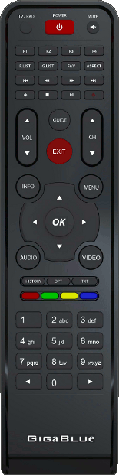
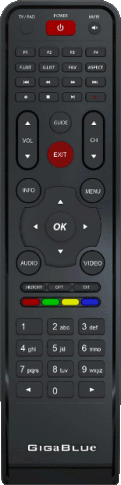
Fix GigaBlue remote.html and improve rc.png

diff --git a/data/rc_models/gb/remote.html b/data/rc_models/gb/remote.html
@@ -1,69 +1,56 @@
 <img border='0' src='static/remotes/gb/rc.png' usemap='#map' >
 <map name="map">
-	<area shape="rect" coords="60,25,95,44" alt="Power" onclick="pressMenuRemote('116');">
-	<area shape="rect" coords="20,408,55,428" alt="1" onclick="pressMenuRemote('2');">
-	<area shape="rect" coords="60,408,94,428" alt="2" onclick="pressMenuRemote('3');">
-	<area shape="rect" coords="100,408,133,428" alt="3" onclick="pressMenuRemote('4');">
-	<area shape="rect" coords="20,434,55,455" alt="4" onclick="pressMenuRemote('5');">
-	<area shape="rect" coords="60,434,94,455" alt="5" onclick="pressMenuRemote('6');">
-	<area shape="rect" coords="100,434,133,455" alt="6" onclick="pressMenuRemote('7');">
-	<area shape="rect" coords="20,461,55,482" alt="7" onclick="pressMenuRemote('8');">
-	<area shape="rect" coords="60,461,94,482" alt="8" onclick="pressMenuRemote('9');">
-	<area shape="rect" coords="100,461,133,482" alt="9" onclick="pressMenuRemote('10');">
-	<area shape="rect" coords="20,488,55,508" alt="previous" onclick="pressMenuRemote('412');">
-	<area shape="rect" coords="60,488,94,508" alt="0" onclick="pressMenuRemote('11');">
-	<area shape="rect" coords="100,488,133,508" alt="next" onclick="pressMenuRemote('407');">
-	<area shape="rect" coords="28,381,50,391" alt="red" onclick="pressMenuRemote('398');">
-	<area shape="rect" coords="54,381,76,391" alt="green" onclick="pressMenuRemote('399');">
-	<area shape="rect" coords="79,381,101,391" alt="yellow" onclick="pressMenuRemote('400');">
-	<area shape="rect" coords="104,381,125,391" alt="blue" onclick="pressMenuRemote('401');">
-	<area shape="circle" coords="118,243,20" alt="menu" onclick="pressMenuRemote('139');">
-	<area shape="circle" coords="77,157,20" alt="epg" onclick="pressMenuRemote('365');">
-	<area shape="circle" coords="36,244,20" alt="info" onclick="pressMenuRemote('358');">
-	<area shape="circle" coords="77,197,20" alt="exit" onclick="pressMenuRemote('174');">
-	<area shape="circle" coords="77,258,20" alt="up" onclick="pressMenuRemote('103');">
-	<area shape="circle" coords="77,322,20" alt="down" onclick="pressMenuRemote('108');">
-	<area shape="circle" coords="46,290,20" alt="left" onclick="pressMenuRemote('105');">
-	<area shape="circle" coords="109,290,20" alt="right" onclick="pressMenuRemote('106');">
-	<area shape="circle" coords="77,290,20" alt="OK" onclick="pressMenuRemote('352');">
-	<area shape="circle" coords="35,158,15" alt="volume up" onclick="pressMenuRemote('115');">
-	<area shape="circle" coords="35,200,15" alt="volume down" onclick="pressMenuRemote('114');">
-	<area shape="circle" coords="121,35,10" alt="mute" onclick="pressMenuRemote('113');">
-	<area shape="rect" coords="19,80,44,91" alt="filelist" onclick="pressMenuRemote('393');">
-	<area shape="rect" coords="20,61,45,72" alt="F1" onclick="pressMenuRemote('59');">
-	<area shape="rect" coords="50,61,75,72" alt="F2" onclick="pressMenuRemote('64');">
-	<area shape="rect" coords="80,61,105,72" alt="F3" onclick="pressMenuRemote('61');">
-	<area shape="rect" coords="110,61,135,72" alt="F4" onclick="pressMenuRemote('62');">
-	<!--
-	<area shape="circle" coords="59,299,12" alt="playlist" onclick="pressMenuRemote('395');">
-	-->
-	<area shape="circle" coords="119,158,15" alt="channel up" onclick="pressMenuRemote('402');">
-	<area shape="circle" coords="119,200,15" alt="channel down" onclick="pressMenuRemote('403');">
-	<area shape="rect" coords="49,98,75,110" alt="rewind" onclick="pressMenuRemote('168');">
-	<area shape="rect" coords="80,117,104,129" alt="play" onclick="pressMenuRemote('119');">
-	<!--
-	<area shape="rect" coords="80,117,104,129" alt="pause" onclick="pressMenuRemote('207');">
-	-->
-	<area shape="rect" coords="80,98,104,110" alt="forward" onclick="pressMenuRemote('208');">
-	<area shape="rect" coords="110,117,134,129" alt="record" onclick="pressMenuRemote('167');">
-	<area shape="rect" coords="50,117,75,129" alt="stop" onclick="pressMenuRemote('128');">
-	<!--
-	<area shape="circle" coords="88,335,12" alt="jump" onclick="pressMenuRemote('519');">
-	<area shape="rect" coords="80,117,104,129" alt="timeshift" onclick="pressMenuRemote('359');">
-	<area shape="circle" coords="59,352,12" alt="mark" onclick="pressMenuRemote('834');">
-	<area shape="circle" coords="88,352,12" alt="search" onclick="pressMenuRemote('535');">
-	<area shape="circle" coords="30,370,12" alt="timer" onclick="pressMenuRemote('362');">
-	<area shape="circle" coords="59,370,12" alt="pip" onclick="pressMenuRemote('375');">
-	<area shape="circle" coords="88,370,12" alt="vkey" onclick="pressMenuRemote('393');">
-	-->
-	<area shape="rect" coords="94,363,125,371" alt="text" onclick="pressMenuRemote('388');">
-	<area shape="rect" coords="62,363,88,371" alt="subtitle" onclick="pressMenuRemote('370');">
-    	
-	<area shape="circle" coords="36,336,20" alt="audio" onclick="pressMenuRemote('392');">
-	<area shape="circle" coords="118,336,20" alt="video" onclick="pressMenuRemote('393');">
-	
-	<area shape="circle" coords="33,34,12" alt="tv radio" onclick="pressMenuRemote('377');">
-	<!--
-	<area shape="circle" coords="90,68,12" alt="help" onclick="pressMenuRemote('138');">
-	-->
+	<area shape="circle" coords="26,28,8" alt="tvrad" onclick="pressMenuRemote('377');">
+	<area shape="rect" coords="45,20,75,35" alt="power" onclick="pressMenuRemote('116');">
+	<area shape="circle" coords="94,28,8" alt="mute" onclick="pressMenuRemote('113');">
+	<area shape="rect" coords="15,47,35,56" alt="f1" onclick="pressMenuRemote('59');">
+	<area shape="rect" coords="39,47,58,56" alt="f2" onclick="pressMenuRemote('64');">
+	<area shape="rect" coords="62,47,81,56" alt="f3" onclick="pressMenuRemote('61');">
+	<area shape="rect" coords="85,47,105,56" alt="f4" onclick="pressMenuRemote('62');">
+	<area shape="rect" coords="15,62,35,71" alt="flist" onclick="pressMenuRemote('226');">
+	<area shape="rect" coords="39,62,58,71" alt="glist" onclick="pressMenuRemote('395');">
+	<area shape="rect" coords="62,62,81,71" alt="fav" onclick="pressMenuRemote('364');">
+	<area shape="rect" coords="85,62,105,71" alt="aspect" onclick="pressMenuRemote('375');">
+	<area shape="rect" coords="15,77,35,86" alt="arrowleft" onclick="pressMenuRemote('412');">
+	<area shape="rect" coords="39,77,58,86" alt="rewind" onclick="pressMenuRemote('168');">
+	<area shape="rect" coords="62,77,81,86" alt="forward" onclick="pressMenuRemote('208');">
+	<area shape="rect" coords="85,77,105,86" alt="arrowright" onclick="pressMenuRemote('407');">
+	<area shape="rect" coords="15,92,35,101" alt="timer" onclick="pressMenuRemote('362');">
+	<area shape="rect" coords="39,92,58,101" alt="stop" onclick="pressMenuRemote('128');">
+	<area shape="rect" coords="62,92,81,101" alt="playpause" onclick="pressMenuRemote('164');">
+	<area shape="rect" coords="85,92,105,101" alt="record" onclick="pressMenuRemote('167');">
+	<area shape="circle" coords="27,122,10" alt="volume up" onclick="pressMenuRemote('115');">
+	<area shape="circle" coords="60,122,12" alt="epg" onclick="pressMenuRemote('365');">
+	<area shape="circle" coords="93,122,10" alt="channel up" onclick="pressMenuRemote('402');">
+	<area shape="circle" coords="27,158,10" alt="volume down" onclick="pressMenuRemote('114');">
+	<area shape="circle" coords="60,154,14" alt="exit" onclick="pressMenuRemote('174');">
+	<area shape="circle" coords="93,158,10" alt="channel down" onclick="pressMenuRemote('403');">
+	<area shape="circle" coords="28,190,14" alt="info" onclick="pressMenuRemote('358');">
+	<area shape="circle" coords="92,190,14" alt="menu" onclick="pressMenuRemote('139');">
+	<area shape="circle" coords="60,200,10" alt="up" onclick="pressMenuRemote('103');">
+	<area shape="circle" coords="33,226,10" alt="left" onclick="pressMenuRemote('105');">
+	<area shape="circle" coords="60,226,15" alt="ok" onclick="pressMenuRemote('352');">
+	<area shape="circle" coords="86,226,10" alt="right" onclick="pressMenuRemote('106');">
+	<area shape="circle" coords="60,253,10" alt="down" onclick="pressMenuRemote('108');">
+	<area shape="circle" coords="28,263,14" alt="audio" onclick="pressMenuRemote('392');">
+	<area shape="circle" coords="92,263,14" alt="video" onclick="pressMenuRemote('393');">
+	<area shape="rect" coords="20,282,45,291" alt="history" onclick="pressMenuRemote('361');">
+	<area shape="rect" coords="47,282,71,291" alt="opt" onclick="pressMenuRemote('370');">
+	<area shape="rect" coords="74,282,100,291" alt="text" onclick="pressMenuRemote('388');">
+	<area shape="rect" coords="20,298,39,305" alt="red" onclick="pressMenuRemote('398');">
+	<area shape="rect" coords="41,298,58,305" alt="green" onclick="pressMenuRemote('399');">
+	<area shape="rect" coords="62,298,79,305" alt="yellow" onclick="pressMenuRemote('400');">
+	<area shape="rect" coords="81,298,99,305" alt="blue" onclick="pressMenuRemote('401');">
+	<area shape="rect" coords="15,318,42,334" alt="1" onclick="pressMenuRemote('2');">
+	<area shape="rect" coords="47,318,73,334" alt="2" onclick="pressMenuRemote('3');">
+	<area shape="rect" coords="78,318,104,334" alt="3" onclick="pressMenuRemote('4');">
+	<area shape="rect" coords="15,340,42,356" alt="4" onclick="pressMenuRemote('5');">
+	<area shape="rect" coords="47,340,73,356" alt="5" onclick="pressMenuRemote('6');">
+	<area shape="rect" coords="78,340,104,356" alt="6" onclick="pressMenuRemote('7');">
+	<area shape="rect" coords="15,360,42,377" alt="7" onclick="pressMenuRemote('8');">
+	<area shape="rect" coords="47,360,73,377" alt="8" onclick="pressMenuRemote('9');">
+	<area shape="rect" coords="78,360,104,377" alt="9" onclick="pressMenuRemote('10');">
+	<area shape="rect" coords="15,381,42,397" alt="previous" onclick="pressMenuRemote('412');">
+	<area shape="rect" coords="47,381,73,397" alt="0" onclick="pressMenuRemote('11');">
+	<area shape="rect" coords="78,381,104,397" alt="next" onclick="pressMenuRemote('407');">
 </map>
